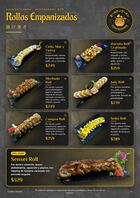
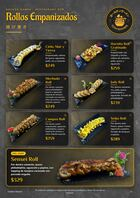
Fotos nuevas: Judy y Campos Roll
Claude-Session: https://claude.ai/code/session_019koabpyAAMnZPtrZYFtJVk

Changed region(s): [[0.5143, 0.3636, 0.8, 0.5455], [0.0286, 0.5455, 0.3143, 0.7273]]

diff --git a/index.html b/index.html
@@ -53,10 +53,10 @@ for(let i=1;i<=N;i++){
   const d=document.createElement('div');
   d.className='page'+((i===1||i===N)?' hard':'');
   if(i===1||i===N) d.setAttribute('data-density','hard');
-  d.innerHTML=`<img src="p${pad(i)}.jpg?v=1794817116" alt="Página ${i} del menú Golden Ramen" ${i>4?'loading="lazy"':''}>`;
+  d.innerHTML=`<img src="p${pad(i)}.jpg?v=1794817195" alt="Página ${i} del menú Golden Ramen" ${i>4?'loading="lazy"':''}>`;
   book.appendChild(d);
   const t=document.createElement('button'); t.className='th'; t.setAttribute('aria-label','Ir a la página '+i);
-  t.innerHTML=`<img src="t${pad(i)}.jpg?v=1794817116" alt="">`; t.onclick=()=>pf&&pf.flip(i-1);
+  t.innerHTML=`<img src="t${pad(i)}.jpg?v=1794817195" alt="">`; t.onclick=()=>pf&&pf.flip(i-1);
   thumbs.appendChild(t);
 }
 let pf=null; let lastW=innerWidth; addEventListener('resize',()=>{ if(Math.abs(innerWidth-lastW)>80){ location.reload(); } });
